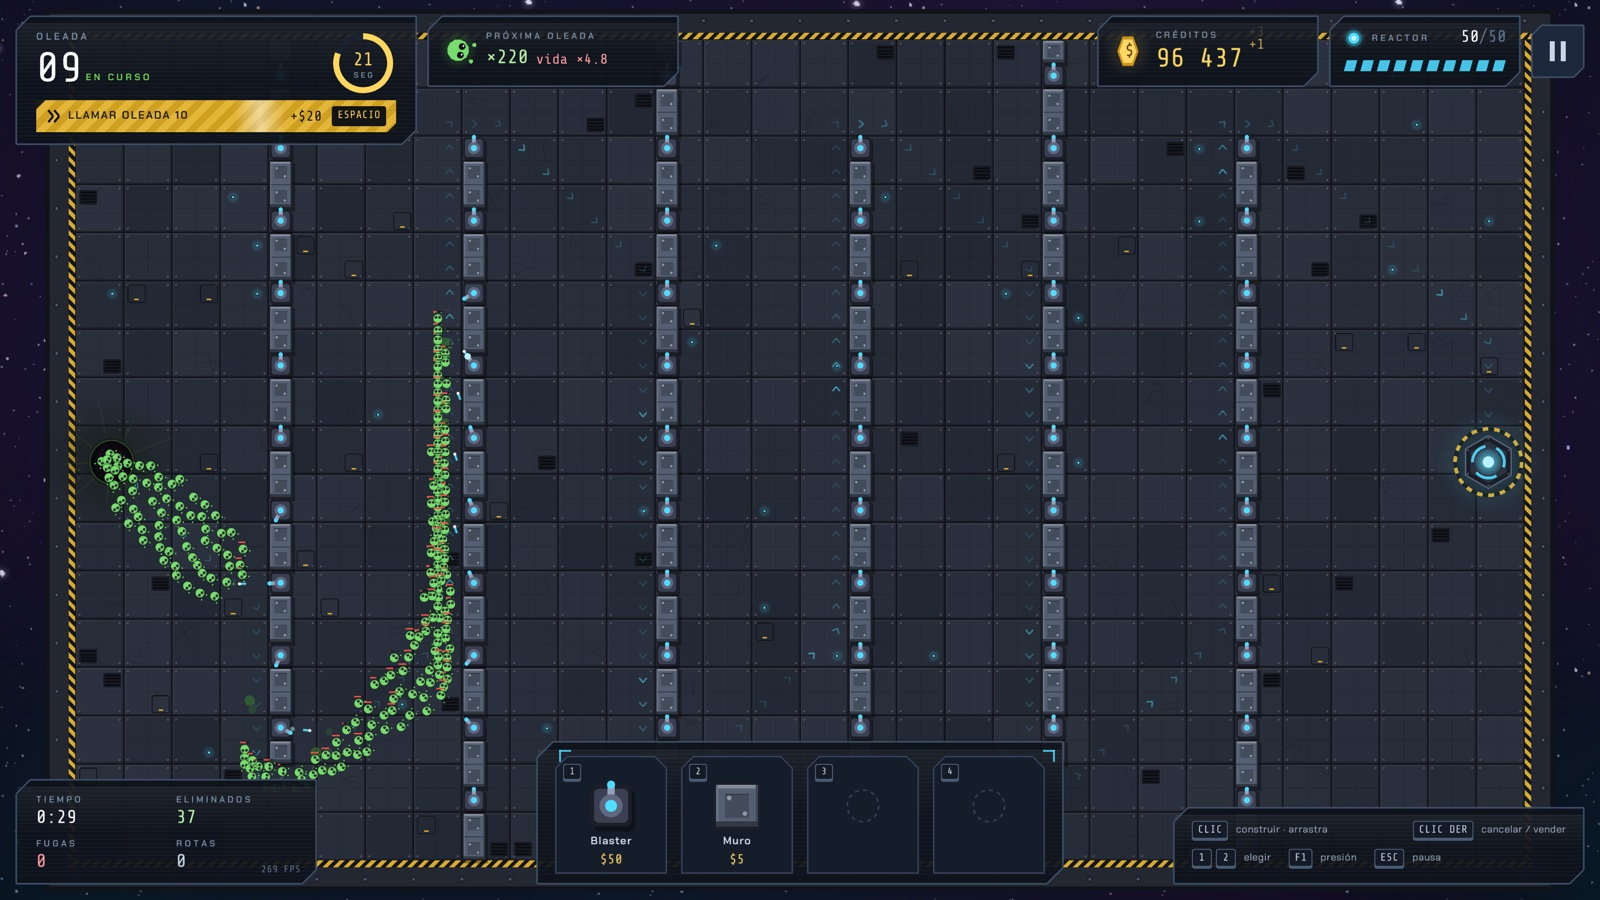
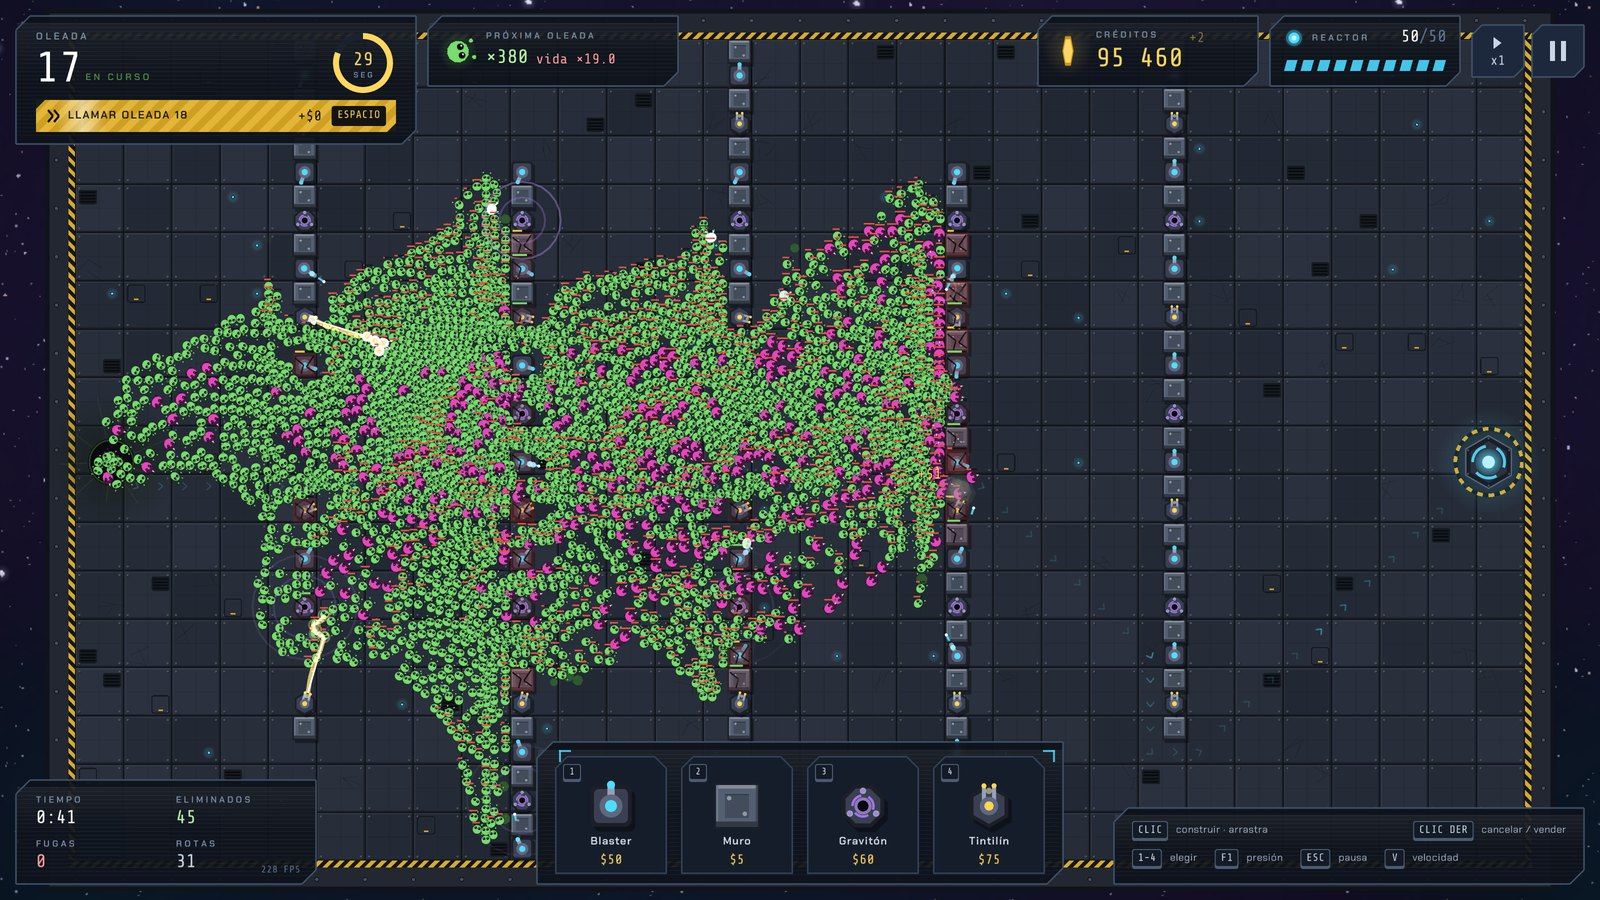
Actualiza capturas con la horda de miles de aliens, el Tintilín y los controles de 0.3.0

diff --git a/README.md b/README.md
@@ -10,7 +10,7 @@
 
 <p align="center"><sub>Siempre la última versión · macOS: Apple Silicon (M1 o posterior) · el juego se actualiza solo</sub></p>
 
-![La horda avanzando por un laberinto de Blasters](screenshots/partida.jpg)
+![Miles de aliens desbordando un laberinto de Blasters, Tintilines y Gravitones](screenshots/partida.jpg)
 
 ## Descargar
 
@@ -26,12 +26,15 @@ El juego se actualiza solo: cuando hay una versión nueva, el menú principal of
 
 ## Cómo se juega
 
-- **Construye donde quieras**: torres Blaster, Gravitones y muros en cualquier casilla libre. Los aliens recalculan su camino al instante, así que el laberinto lo diseñas tú.
+- **Construye donde quieras**: torres Blaster, Tintilines, Gravitones y muros en cualquier casilla libre. Los aliens recalculan su camino al instante, así que el laberinto lo diseñas tú.
+- **Tintilín**: un láser que pega al instante y rebota entre cuatro aliens: ideal contra la horda apretada.
 - **Gravitón**: no dispara, emite ondas gravitacionales que frenan a la horda para que pase más tiempo bajo el fuego de tus Blasters.
 - **La horda empuja**: se mueve como un fluido y, si le cierras el paso, aplasta tus construcciones a la fuerza.
 - **Marcianecos**: aliens más duros que se lanzan de cabeza contra los muros que tienen delante para abrirse paso por tu laberinto.
-- **Oleadas infinitas**, cada vez más duras. Pulsa `Espacio` para llamar la siguiente antes y ganar créditos extra.
+- **Oleadas infinitas**, cada vez más duras. Pulsa `Espacio` para llamar la siguiente antes y ganar créditos extra, y acelera la partida a ×2 o ×3 con `V`.
 - **Ranking online** global y semanal (cada partida se vuelve a jugar en el servidor para comprobar que es real), y un botón para **compartir** tu partida por WhatsApp con una imagen de tu laberinto.
+
+![La horda de miles de aliens aplastando los muros del laberinto](screenshots/horda.jpg)
 
 ![Gravitones frenando a la horda mientras los marcianecos embisten los muros](screenshots/gravedad.jpg)
 
@@ -49,10 +52,12 @@ Al compartir por WhatsApp, tus amigos ven una tarjeta como esta con tu laberinto
 
 | Acción | Tecla |
 |---|---|
-| Elegir Blaster / Muro / Gravitón | `1` / `2` / `3` o clic en el muelle |
+| Elegir Blaster / Muro / Gravitón / Tintilín | `1` / `2` / `3` / `4` o clic en el muelle |
 | Construir (se puede arrastrar) | clic izquierdo |
 | Vender (50 %) | clic derecho sobre la construcción |
 | Llamar la siguiente oleada | `Espacio` |
+| Acelerar la partida (×1 / ×2 / ×3) | `V` o el botón junto a la pausa |
+| Zoom | rueda del ratón / trackpad (`F` encuadra el tablero) |
 | Mover la cámara | `WASD` / flechas o botón central |
 | Pausa | `Esc` / `P` |
 | Compartir la partida (tras perder) | `W` |
